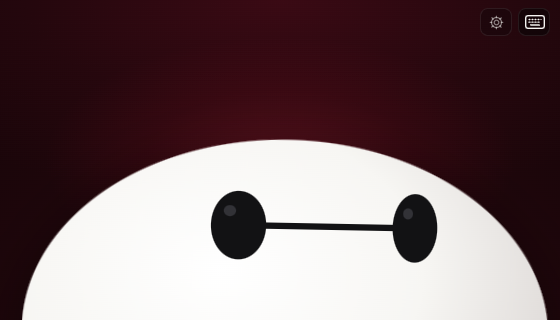
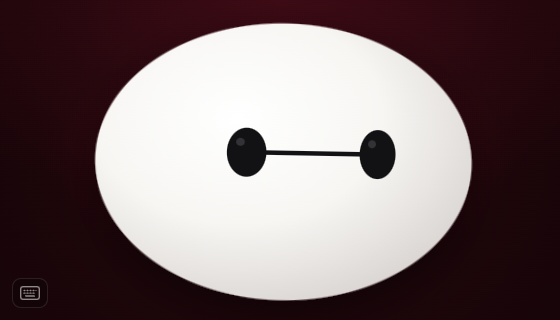
Mac companion back to the whole-head face with the bottom-left keyboard button; dome stays iPhone-only
Claude-Session: https://claude.ai/code/session_016My76c1ezCFbTM7TZoGoq4

diff --git a/desktop/src/views/Companion.tsx b/desktop/src/views/Companion.tsx
@@ -81,7 +81,7 @@ export default function Companion() {
   const task = active[0];
   const [typing, setTyping] = useState(false);
   return (
-    // Desk-companion face mode: the face as a dome plus two small icons (settings, keyboard) top-right. Everything else is in the menu
+    // Desk-companion face mode: only the face and a small keyboard button. Everything else is in the right-click menu
     // and the menu-bar tray. Alerts (E-stop, approvals, errors) appear only while they need you.
     <div className={`stage companion-layout face-mode ${state === "SLEEPING" || state === "DISCONNECTED" ? "dim" : ""}`}
       onContextMenu={(e) => { e.preventDefault(); window.baymax?.showCompanionMenu?.(); }}>
@@ -92,32 +92,23 @@ export default function Companion() {
       </div>
       <span className="sr-only" role="status" aria-live="polite">BAYMAX is {describeState(state)}</span>
       <div className="face-overlay">
-        <div className="face-icons">
-          <button className="icon-btn no-drag" onClick={() => window.baymax?.showCompanionMenu?.()} title="Settings and more"
-            aria-label="Settings and more">
-            <svg width="17" height="17" viewBox="0 0 24 24" aria-hidden="true" fill="none" stroke="currentColor" strokeWidth="1.7">
-              <circle cx="12" cy="12" r="3.2" />
-              <path d="M12 2.8v2.4M12 18.8v2.4M2.8 12h2.4M18.8 12h2.4M5.5 5.5l1.7 1.7M16.8 16.8l1.7 1.7M5.5 18.5l1.7-1.7M16.8 7.2l1.7-1.7" strokeLinecap="round" />
-              <circle cx="12" cy="12" r="7" />
-            </svg>
-          </button>
-          <button className="icon-btn no-drag" onClick={() => setTyping((v) => !v)} title="Type to BAYMAX" aria-label="Type a message"
-            aria-pressed={typing}>
+        {showCaption && lastAssistant && state !== "SLEEPING" && (
+          <div className="speech-caption" aria-hidden="true" title={lastAssistant.text}>{lastAssistant.text}</div>
+        )}
+        {estop.engaged && <div className="banner estop" role="alert">Emergency Stop is engaged — controlled actions are blocked.</div>}
+        <ApprovalBanners />
+        {voice.error && <div className="banner" role="alert">{voice.error}</div>}
+        {typing ? (
+          <ChatInput autoFocus onDone={() => setTyping(false)} placeholder={sleeping ? "Asleep — wake me first" : "Ask BAYMAX…"}
+            disabled={sleeping || state === "DISCONNECTED"} />
+        ) : (
+          <button className="keyboard-btn no-drag" onClick={() => setTyping(true)} title="Type to BAYMAX (right-click for more)"
+            aria-label="Type a message">
             <svg width="20" height="14" viewBox="0 0 20 14" aria-hidden="true" fill="none" stroke="currentColor" strokeWidth="1.4">
               <rect x="0.7" y="0.7" width="18.6" height="12.6" rx="2.2" />
               <path d="M4 4.5h1M7 4.5h1M10 4.5h1M13 4.5h1M16 4.5h0M4 7.2h1M7 7.2h1M10 7.2h1M13 7.2h1M5.5 10h9" strokeLinecap="round" />
             </svg>
           </button>
-        </div>
-        {typing && (
-          <ChatInput autoFocus onDone={() => setTyping(false)} placeholder={sleeping ? "Asleep — wake me first" : "Ask BAYMAX…"}
-            disabled={sleeping || state === "DISCONNECTED"} />
-        )}
-        {estop.engaged && <div className="banner estop" role="alert">Emergency Stop is engaged — controlled actions are blocked.</div>}
-        <ApprovalBanners />
-        {voice.error && <div className="banner" role="alert">{voice.error}</div>}
-        {showCaption && lastAssistant && state !== "SLEEPING" && (
-          <div className="speech-caption" aria-hidden="true" title={lastAssistant.text}>{lastAssistant.text}</div>
         )}
       </div>
     </div>

diff --git a/desktop/src/theme.css b/desktop/src/theme.css
@@ -42,15 +42,14 @@ button, input, textarea, select { font: inherit; color: inherit; }
 .character-canvas canvas { display: block; }
 /* Desk-companion face mode (Mac): the face edge to edge, a small keyboard button bottom-left, alerts only when needed. */
 .stage.companion-layout.face-mode > .face-region { position: absolute; inset: 0; min-height: 0; }
-.stage.companion-layout.face-mode > .drag-strip { position: absolute; top: 0; left: 0; right: 90px; height: 30px; z-index: 2; }
-.stage.companion-layout.face-mode > .face-overlay { position: absolute; left: 12px; right: 10px; top: 8px; z-index: 3;
-  display: flex; flex-direction: column; align-items: flex-end; gap: 8px; pointer-events: none; }
+.stage.companion-layout.face-mode > .drag-strip { position: absolute; top: 0; left: 0; right: 0; height: 26px; z-index: 2; }
+.stage.companion-layout.face-mode > .face-overlay { position: absolute; left: 12px; right: 12px; bottom: 12px; z-index: 3;
+  display: flex; flex-direction: column; align-items: flex-start; gap: 8px; pointer-events: none; }
 .face-overlay > * { pointer-events: auto; }
 .face-overlay > form, .face-overlay > .banner, .face-overlay > .speech-caption { align-self: stretch; }
-.face-icons { display: flex; gap: 6px; }
-.icon-btn { width: 32px; height: 28px; display: grid; place-items: center; border-radius: 8px; border: 1px solid rgba(255, 255, 255, 0.08);
-  background: rgba(8, 3, 5, 0.3); color: rgba(245, 245, 242, 0.5); cursor: pointer; transition: color 160ms ease, background 160ms ease; }
-.icon-btn:hover, .icon-btn:focus-visible, .icon-btn[aria-pressed="true"] { color: var(--white); background: rgba(8, 3, 5, 0.6); }
+.keyboard-btn { width: 36px; height: 30px; display: grid; place-items: center; border-radius: 9px; border: 1px solid rgba(255, 255, 255, 0.10);
+  background: rgba(8, 3, 5, 0.35); color: rgba(245, 245, 242, 0.55); cursor: pointer; transition: color 160ms ease, background 160ms ease; }
+.keyboard-btn:hover, .keyboard-btn:focus-visible { color: var(--white); background: rgba(8, 3, 5, 0.6); }
 
 .drag { -webkit-app-region: drag; }
 .no-drag { -webkit-app-region: no-drag; }

diff --git a/desktop/src/shared/face2d.ts b/desktop/src/shared/face2d.ts
@@ -110,17 +110,19 @@ export function faceGeometry(pose: Pose, expression: Expression, point: { x: num
 export interface FaceFit { scale: number; cx: number; cy: number; composition: Composition }
 
 /** Pixels per face unit and the head's resting centre for a view of w x h.
- *  Landscape: dome composition (head centre just below the bottom edge, like the reference desk device).
- *  Portrait/narrow: the whole head. Never cropped except the dome's lower half, which is below the screen by design. */
-export function fitFace(w: number, h: number): FaceFit {
+ *  `dome` (iPhone, landscape): head centre just below the bottom edge, like the reference desk device.
+ *  Otherwise (Mac companion, portrait): the whole head, never cropped. */
+export function fitFace(w: number, h: number, dome = true): FaceFit {
   const W = w > 0 && Number.isFinite(w) ? w : 1;
   const H = h > 0 && Number.isFinite(h) ? h : 1;
   const f = FACE.fit;
   const D = FACE.dome;
-  if (W / H >= 1.2) {
+  const landscape = W / H >= 1.2;
+  if (landscape && dome) {
     const scale = Math.min((W * D.halfWidthFrac) / FACE.head.rx, (H * D.heightFrac) / (FACE.head.ry * (1 + f.parallaxRoom)));
     return { scale: r6(scale), cx: r6(W / 2), cy: r6(H + D.sink * scale), composition: "dome" };
   }
-  const scale = Math.min((W * f.widthFrac) / (2 * FACE.head.rx), (H * f.heightFrac) / (2 * FACE.head.ry * (1 + f.parallaxRoom)));
-  return { scale: r6(scale), cx: r6(W / 2), cy: r6(H * f.centerY), composition: "full" };
+  const heightFrac = landscape ? f.landscapeHeightFrac : f.heightFrac;
+  const scale = Math.min((W * f.widthFrac) / (2 * FACE.head.rx), (H * heightFrac) / (2 * FACE.head.ry * (1 + f.parallaxRoom)));
+  return { scale: r6(scale), cx: r6(W / 2), cy: r6(H * (landscape ? f.landscapeCenterY : f.centerY)), composition: "full" };
 }

diff --git a/desktop/tests/face2d.test.ts b/desktop/tests/face2d.test.ts
@@ -66,7 +66,17 @@ describe("2D face geometry (design/baymax-visual-spec.json face2d)", () => {
     }
   });
 
-  it("landscape is a dome rising from the bottom edge, with the eyes always visible inside it", () => {
+  it("the Mac companion keeps the whole head, centred, never cropped", () => {
+    for (const [w, h] of [[560, 320], [1440, 900], [2000, 1250]]) {
+      const f = fitFace(w, h, false);
+      expect(f.composition).toBe("full");
+      expect(f.cx + f.scale * FACE.head.rx).toBeLessThanOrEqual(w);
+      expect(f.cy - f.scale * FACE.head.ry).toBeGreaterThanOrEqual(0);
+      expect(f.cy + f.scale * FACE.head.ry).toBeLessThanOrEqual(h);
+    }
+  });
+
+  it("iPhone landscape is a dome rising from the bottom edge, with the eyes always visible inside it", () => {
     for (const [w, h] of [[844, 390], [560, 320], [932, 430], [1600, 500]]) {
       const f = fitFace(w, h);
       expect(f.composition).toBe("dome");

diff --git a/desktop/src/character/BaymaxCharacter.tsx b/desktop/src/character/BaymaxCharacter.tsx
@@ -71,7 +71,7 @@ export default function BaymaxCharacter(props: CharacterProps) {
   }, []);
 
   const expression = expressionFor(props.state, { cursorLive: !!props.cursorLive, pointing: !!props.point, taskKind: props.taskKind });
-  const fit = fitFace(frame.w, frame.h);
+  const fit = fitFace(frame.w, frame.h, false); // Mac: the whole head (the dome is the iPhone's landscape layout)
   const g = faceGeometry(frame.pose, expression, props.point ?? null, fit.composition);
   useEffect(() => props.onFrame?.({ expression, geometry: g }));
 

diff --git a/docs/VISUAL_SPEC.md b/docs/VISUAL_SPEC.md
@@ -38,17 +38,13 @@ draws SwiftUI `Canvas` paths (`ios/BaymaxCompanion/Character/CharacterView.swift
 - **Depth without 3D:** for gaze, the eye group slides across the face (up to 0.30 sideways, 0.20 up/down). The eye nearest the edge
   narrows by up to 28 % and the eyes move slightly closer together. The head shifts a little (parallax) and rolls with the pose.
   The eyes always stay inside the head; this is tested for cursor positions on and beyond the screen edges.
-- **Landscape face mode (default on both):** like the reference desk device, the head is a dome rising from the bottom edge of
-  the screen. Its centre sits just below the bottom, so only the upper part shows; it spans about 94 % of the width and the eyes sit
-  in it. The eyes' travel follows the dome's curve, so they never leave it (tested for every gaze direction).
-  - Only two small icons are shown, in the top-right corner: settings, then keyboard. The keyboard opens a text field under them.
-  - Mac: settings opens the menu (Conversation, Workspace, Sleep/Wake, Emergency Stop, Hide); right-click on the face and the
-    menu-bar tray offer the same. Emergency Stop is also the global shortcut ⌘⇧. (Cmd+Shift+period).
-  - iPhone: settings opens Settings & pairing. Long-press the face for Conversation, Current task, Sleep/Wake, Settings and
-    Emergency Stop.
-  - Alerts (Emergency Stop engaged, approvals, errors, connection problems) appear under the icons only while they need you.
-- **Indicators in landscape:** thinking dots and the link-off glyph sit above the dome, the "z" at its upper right, and the
-  research magnifier moves along its top.
+- **Mac companion:** the whole head, centred and large, in a 560×320 window, with only a small keyboard button at the
+  bottom-left. Right-click and the menu-bar tray hold Conversation, Workspace, Sleep/Wake, Emergency Stop and Hide.
+  Emergency Stop is also the global shortcut ⌘⇧. (Cmd+Shift+period).
+- **iPhone, landscape (desk mode):** like the reference device, the head is a dome rising from the bottom edge. The eyes sit in
+  the dome and their travel follows its curve. Only ⚙ (Settings & pairing) and ⌨ are shown, top-right. Long-press the face
+  for Conversation, Current task, Sleep/Wake, Settings and Emergency Stop.
+- **Alerts on both:** Emergency Stop engaged, approvals and errors appear only while they need you.
 - **Fit:** in portrait the whole head is shown, filling 70 % of the width or 56 % of the height (whichever is smaller); it is never cropped.
   With the conversation open in landscape, the face moves to a narrower region beside it.
 - **Evidence:**
